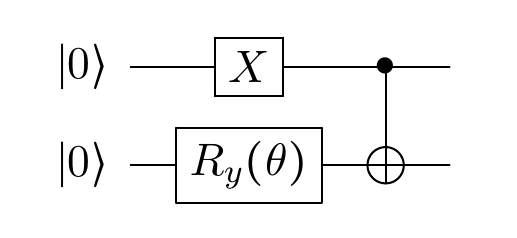
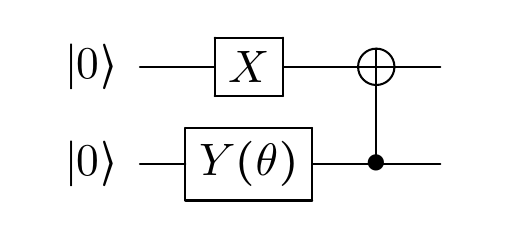
corr UCC

diff --git a/page_qc_UCC.md b/page_qc_UCC.md
@@ -93,7 +93,7 @@ $$
 \end{align}
 $$  
 
-The UCC ansatz was simplified in Phys. Rev. Lett. **120**, 210501 (2018) (for details see [link](./page_pn.html)) to a $${ X }$$ gate on the first qubit, a rotation around the $${ y }$$ axis $${ {R}_{y}(\theta) = {e}^{-i \frac{\theta}{2} Y } }$$ on the second qubit, and the CNOT gate from 2 to 1 (also noted $${ \text{CNOT}_{01} }$$ instead of $${ \text{CNOT}_{10} }$$ for usual one). 
+The UCC ansatz was simplified in Phys. Rev. Lett. **120**, 210501 (2018) (for details see [link](./page_pn.html)) to a $${ X }$$ gate on the first qubit, a rotation around the $${ y }$$ axis $${ {R}_{y}(\theta) = {e}^{-i \frac{\theta}{2} Y } }$$ on the second qubit (also noted $${ Y(\theta) }$$), and the CNOT gate from 2 to 1 (also noted $${ \text{CNOT}_{01} }$$ instead of $${ \text{CNOT}_{10} }$$ for usual one). 
 
 ![](assets/fig_qc_circuit_UCC.png)
 
